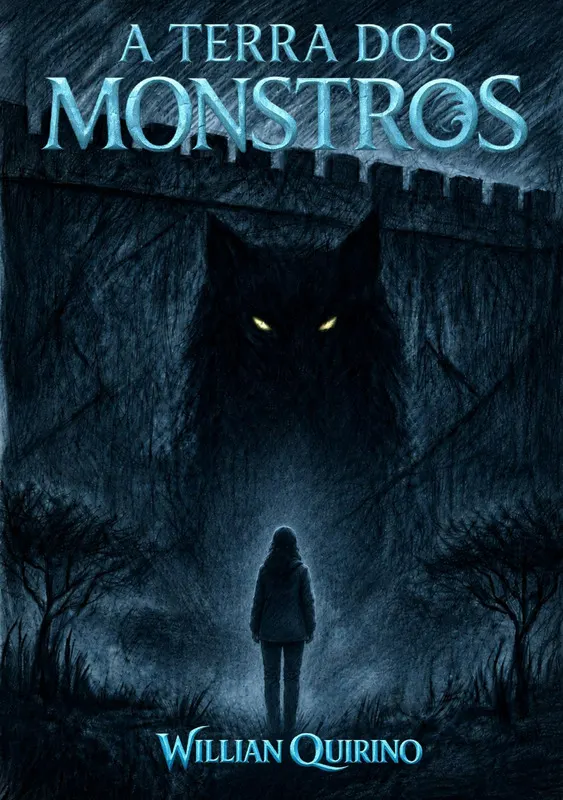
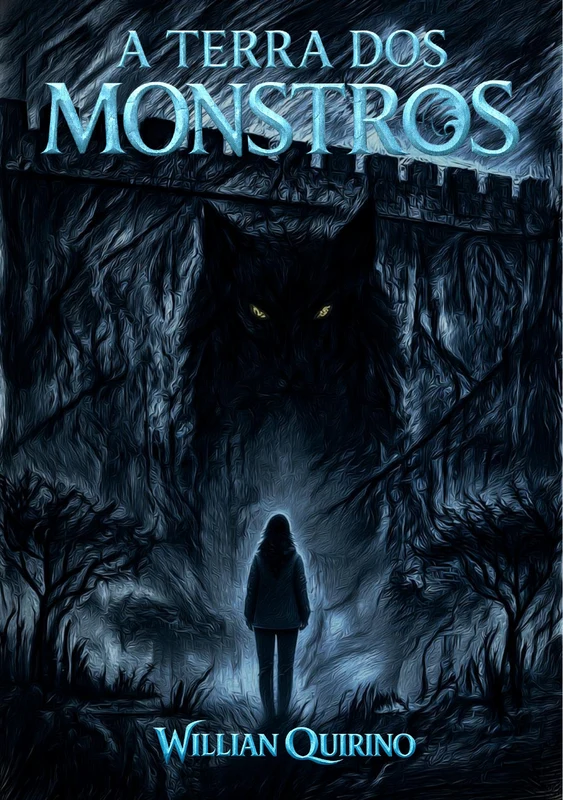
Atualiza capa de A Terra dos Monstros na home

diff --git a/index.html b/index.html
@@ -608,7 +608,7 @@
 
           <div class="hero-stack reveal" aria-hidden="true">
             <figure class="hero-book hero-book-terra">
-              <img src="assets/images/cover-terra-current.jpg" alt="">
+              <img src="assets/images/cover-terra.webp?v=20260730-2" alt="">
             </figure>
             <figure class="hero-book hero-book-elemental">
               <img src="assets/images/cover-elemental.webp" alt="">
@@ -651,7 +651,7 @@
           <article class="book-card book-card-terra reveal">
             <a class="card-stretched-link" href="a-terra-dos-monstros/" aria-label="Conhecer A Terra dos Monstros"></a>
             <a class="cover-wrap" href="a-terra-dos-monstros/" aria-label="Conhecer A Terra dos Monstros">
-              <img src="assets/images/cover-terra-current.jpg" alt="Capa do livro A Terra dos Monstros" width="900" height="1273" decoding="async">
+              <img src="assets/images/cover-terra.webp?v=20260730-2" alt="Capa do livro A Terra dos Monstros" width="563" height="800" decoding="async">
               <span class="cover-glow" aria-hidden="true"></span>
             </a>
             <div class="book-card-body">
@@ -875,7 +875,7 @@
         <div class="soundtrack-grid">
           <article class="soundtrack-card soundtrack-terra reveal">
             <div class="soundtrack-card-head">
-              <img src="assets/images/cover-terra-current.jpg" alt="Capa de A Terra dos Monstros" width="900" height="1273" loading="lazy" decoding="async">
+              <img src="assets/images/cover-terra.webp?v=20260730-2" alt="Capa de A Terra dos Monstros" width="563" height="800" loading="lazy" decoding="async">
               <div>
                 <p class="soundtrack-label"><span aria-hidden="true"></span> Trilha sonora original</p>
                 <h3>A Terra dos Monstros</h3>
